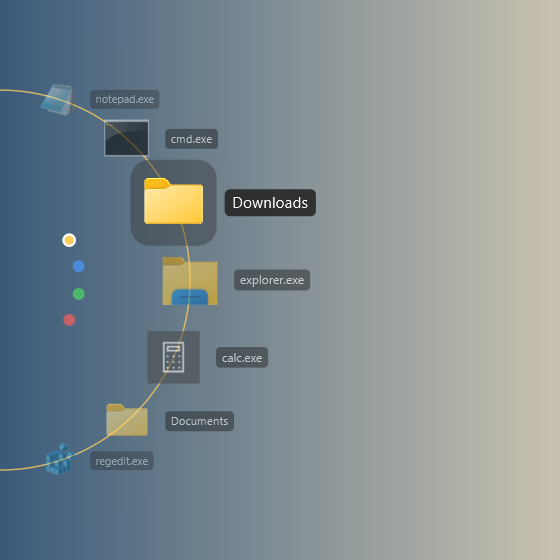
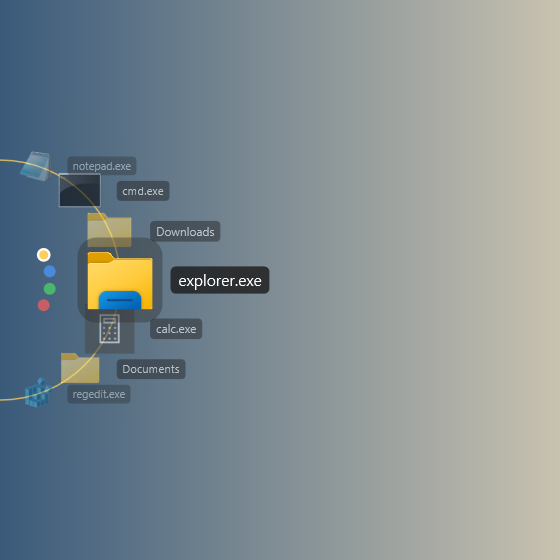
HaloDock 0.3.0
Version bump, changelog, and refreshed screenshots (including pin and
unpin) for the 0.3.0 release.

Changed region(s): [[0.0, 0.1518, 0.5768, 0.85]]

diff --git a/CHANGELOG.md b/CHANGELOG.md
@@ -1,0 +1,23 @@
+# Changelog
+
+## 0.3.0
+
+- **Unpin to remove.** While you hold an icon, an unpin symbol appears in the middle of the wheel. Drop the icon on it to take it off the ring (the file itself is never touched).
+- **Pin to add.** Files dragged in from Explorer show a pin in the gap where they'll be added.
+- **Choose your symbols.** Settings → Behavior offers matching remove/add pairs: unpin/pin (default), minus/plus, eye-slash/eye, star-slash/star, cross/plus. The right-click menu uses the same wording.
+- **Fix:** on a small wheel, files dragged between two folders always went into one of them. Gaps between icons are reachable again.
+
+## 0.2.0
+
+- **Renamed** from EdgeDock to HaloDock. Settings and the start-with-Windows entry carry over automatically.
+- **Arrange like a phone home screen.** Long-press an icon (or press and drag) to pick it up; the others part to show where it'll land. Let go off the ring to cancel.
+- **Drag to add.** Drop files from Explorer into a gap between icons to add them to the ring.
+- **Remove from ring** in the right-click menu.
+
+## 0.1.0
+
+- First version: a half-wheel of files, folders and apps that opens from the left edge of the screen.
+- Real Windows icons, scroll to turn, click to open, the normal right-click menu.
+- Drag files onto a folder to move/copy them, or onto an app to open them with it.
+- Multiple rings, switched with coloured dots on an inner ring.
+- Multi-monitor options, and light/dark theme to match Windows.

diff --git a/README.md b/README.md
@@ -3,10 +3,12 @@
 A radial launcher for Windows that pops out of the left edge of your screen. Rest your pointer against the edge and your files, folders and apps fan out in a half-wheel; scroll to turn it, click to open.
 
 <p>
-  <img src="docs/screenshots/wheel.png" width="24%" alt="The wheel open at the screen edge">
-  <img src="docs/screenshots/wheel-hover.png" width="24%" alt="Hovering an item">
-  <img src="docs/screenshots/wheel-rings.png" width="24%" alt="Hovering a ring dot">
-  <img src="docs/screenshots/wheel-rearrange.png" width="24%" alt="Picking up an icon to move it">
+  <img src="docs/screenshots/wheel.png" width="32%" alt="The wheel open at the screen edge">
+  <img src="docs/screenshots/wheel-hover.png" width="32%" alt="Hovering an item">
+  <img src="docs/screenshots/wheel-rings.png" width="32%" alt="Hovering a ring dot">
+  <img src="docs/screenshots/wheel-rearrange.png" width="32%" alt="Picking up an icon to move it">
+  <img src="docs/screenshots/wheel-unpin.png" width="32%" alt="Dropping a held icon on the unpin target">
+  <img src="docs/screenshots/wheel-pin.png" width="32%" alt="Dragging a file into a gap to pin it">
 </p>
 
 ## Features
